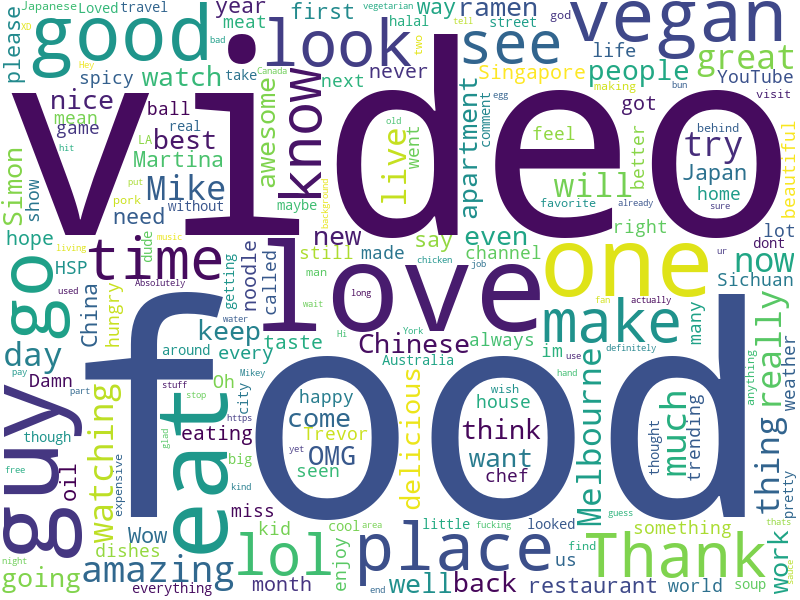
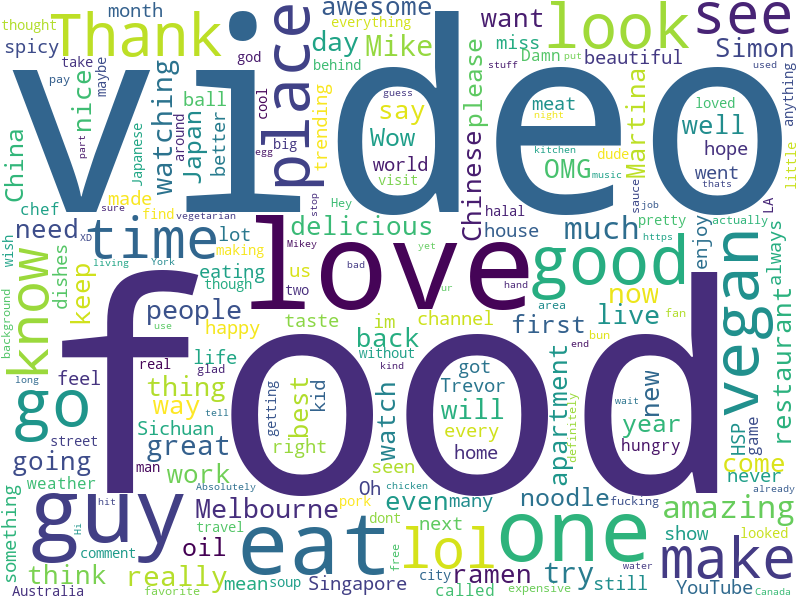
basic nltk/vader sentiment analysis, with wordcloud generation for positive and negative comments. more refactoring, updates to the readme, and other small changes elsewhere.

diff --git a/main/sentiments.py b/main/sentiments.py
@@ -1,0 +1,152 @@
+"""
+sentiments.py
+
+Perform sentiment analysis on individual videos (within a category, since there are many videos).
+
+Input file comes from the output of extract.py, which generates a .json file with data entries.
+Format of a data entry:
+{
+    video_id: {
+        "title": title,
+        "channel_title": channel_title,
+        "category_id": category_id,
+        "category_name": category_name,
+        ...
+        "comments": [
+            {
+                "comment_text": comment_text,
+                "likes": likes,
+                "replies": replies
+            }
+        ]
+    }
+}
+"""
+
+import argparse
+import json
+import extract_helpers
+import wordcloud_helper
+from nltk.sentiment.vader import SentimentIntensityAnalyzer
+from nltk import tokenize
+
+
+CATEGORY_DATA = "data/US_category_id.json"
+
+
+def extract_sentiments(comments):
+    """
+    Print sentiment data for this video's comments.
+
+    Returns a tuple of 3 elements:
+    - sentiment_score: a value indicating the average sentiment of all of these comments
+    - positive_comments: list of strings, the comments which had positive sentiment score
+    - negative_comments: list of strings, the comments which had negative sentiment score
+
+    A comment entry looks like:
+    "comments": [
+        {
+            "comment_text": comment_text,
+            "likes": likes,
+            "replies": replies
+        }
+    ]
+    :param comments: list of comment entries
+    :return: tuple of (sentiment score, positive comments, negative comments)
+    """
+    positive_comments = []
+    negative_comments = []
+    all_comment_scores = []
+
+    for comment in comments:
+        # use the nltk tokenizer to split the comment text into sentences
+        comment_text = comment["comment_text"]
+        sentences = tokenize.sent_tokenize(comment_text)
+
+        # get compound scores (sentiments) for each sentence in this comment
+        sid = SentimentIntensityAnalyzer()
+        compound_scores = []
+        for sentence in sentences:
+            ss = sid.polarity_scores(sentence)
+            compound_score = ss["compound"]
+            compound_scores.append(compound_score)
+
+        if len(compound_scores) == 0:
+            # implies that there were no comments for this video, which is totally possible if comments disabled
+            continue
+
+        avg_compound_score = sum(compound_scores) / len(compound_scores)
+        if avg_compound_score >= 0:
+            positive_comments.append(comment_text)
+        else:
+            negative_comments.append(comment_text)
+
+        all_comment_scores.append(avg_compound_score)
+
+    sentiment_score = sum(all_comment_scores) / len(all_comment_scores)
+    return sentiment_score, positive_comments, negative_comments
+
+
+def sentiments_by_category_id(input_filename, output_dir, category_id):
+    """
+    Get sentiments by category id.
+    Read input from input_file.
+    Output any data to output_dir.
+
+    For each video, find its sentiment score and print out its metadata (likes, dislikes, views, etc).
+
+    Generate wordclouds for both the positive comments and the negative comments of this
+
+    :param input_filename: string, the name of the input data file
+    :param output_dir: string, name of output directory
+    :param category_id: string, category id.
+    """
+    print("Starting: Sentiments for category id (%s)" % category_id)
+
+    with open(input_filename, "r") as input_file:
+        all_data_entries = json.load(input_file)
+
+        # get all videos with specified category
+
+        relevant_data_entries = {k: v for (k, v) in all_data_entries.items() if v["category_id"] == category_id}
+
+        if len(relevant_data_entries) == 0:
+            print("There were no videos for this category, continuing")
+            return
+
+        # iterate over each video, perform sentiment analysis and print out data
+        positive_comments = []
+        negative_comments = []
+        for video_id in relevant_data_entries:
+            print("Processing video id: (%s)" % video_id)
+            entry = relevant_data_entries[video_id]
+            score, positive, negative = extract_sentiments(entry["comments"])
+            positive_comments.extend(positive)
+            negative_comments.extend(negative)
+
+            print("Video title: %s, Views: %s, Likes: %s, Dislikes: %s, Channel title: %s, "
+                  "Compound sentiment score: %0.4f" % (entry["title"],
+                  entry["views"], entry["likes"], entry["dislikes"], entry["channel_title"], score))
+            print("_" * 20)
+
+        # generate wordclouds
+        pos_name = category_id + "-" + category_data[category_id] + "-" + "positive"
+        wordcloud_helper.generate_wordcloud(" ".join(positive_comments), pos_name, output_dir)
+
+        neg_name = category_id + "-" + category_data[category_id] + "-" + "negative"
+        wordcloud_helper.generate_wordcloud(" ".join(negative_comments), neg_name, output_dir)
+
+
+if __name__ == "__main__":
+    # Preliminary parsing - get category id and names
+    with open(CATEGORY_DATA, "r") as category_file:
+        category_data = extract_helpers.extract_categories_data(category_file)
+
+    # Command line parsing
+    parser = argparse.ArgumentParser(description="Preprocess CSV files")
+    parser.add_argument("-i", "--input", help="Specify the input file to use", required=True)
+    parser.add_argument("-o", "--output", help="Specify the output directory to use", required=True)
+    parser.add_argument("-c", "--cat", help="Category id to generate wordclouds for", required=True)
+    args = parser.parse_args()
+
+    sentiments_by_category_id(args.input, args.output, args.cat)

diff --git a/main/wordcloud_by_category.py b/main/wordcloud_by_category.py
@@ -1,15 +1,9 @@
 """
-wordclouds.py
+wordcloud_by_category.py
 
-Generate wordclouds.
-(uses the library from amueller, https://github.com/amueller/word_cloud)
+Generates a wordcloud for each category id.
 
-I'll generate one for each category id. There are other ways to split up the videos, but I'll just stick with one
-technique for now.
-
-Run preprocessing first - the preprocessing script produces a .json file that we take in as input.
-The .json file will have a specific format, as shown below.
-
+Input file comes from the output of extract.py, which generates a .json file with data entries.
 Format of a data entry:
 {
     video_id: {
@@ -32,9 +26,8 @@ Format of a data entry:
 
 import argparse
 import json
-import os
 import extract_helpers
-from wordcloud import WordCloud
+import wordcloud_helper
 
 ###########
 # GLOBALS #
@@ -45,14 +38,17 @@ CATEGORY_DATA = "data/US_category_id.json"
 ###########
 # HELPERS #
 ###########
-def wordcloud_for_specific_category_id(category_id):
+def wordcloud_for_specific_category_id(input_filename, output_dir, category_id):
     """
     Generate a word cloud for the category_id.
-    :param category_id: str, category id
+
+    :param input_filename: string, the filename of the input data file
+    :param output_dir: string, the name of the output dir
+    :param category_id: string, category id
     """
     print("Starting: Generate a word cloud for category id (%s)" % category_id)
 
-    with open(args.input, "r") as input_file:
+    with open(input_filename, "r") as input_file:
         all_data_entries = json.load(input_file)
 
         # get all videos with specified category
@@ -68,7 +64,7 @@ def wordcloud_for_specific_category_id(category_id):
         output_filename = category_id + "-" + category_data[category_id]
 
         # generate the word cloud
-        generate_wordcloud(counts_text, output_filename, args.output)
+        wordcloud_helper.generate_wordcloud(counts_text, output_filename, output_dir)
 
 
 def get_token_counts(data_entries):
@@ -119,19 +115,6 @@ def counts_to_text(counts):
     return " ".join(str_list)
 
 
-def generate_wordcloud(text, name, output_dir):
-    """
-    Generate a word cloud, given text.
-
-    :param text: str, tokens have to be space-separated
-    :param name: str, filename to output
-    :param output_dir: str, output directory name
-    """
-    wc = WordCloud(background_color="white", width=800, height=600, collocations=False)
-    wc.generate(text)
-    wc.to_file(os.path.join(output_dir, name) + ".png")
-
-
 if __name__ == "__main__":
     # Preliminary parsing - get category id and names
     with open(CATEGORY_DATA, "r") as category_file:
@@ -147,7 +130,7 @@ if __name__ == "__main__":
     # If command line argument contains -c option, only generate a word cloud for that category id.
     # If -c option not provided, generate a word cloud for every category id.
     if args.cat is not None:
-        wordcloud_for_specific_category_id(args.cat)
+        wordcloud_for_specific_category_id(args.input, args.output, args.cat)
     else:
         for cat_id in category_data:
-            wordcloud_for_specific_category_id(cat_id)
+            wordcloud_for_specific_category_id(args.input, args.output, cat_id)

diff --git a/main/extract_helpers.py b/main/extract_helpers.py
@@ -2,7 +2,6 @@ import csv
 import json
 import re
 
-
 ###################
 # Data Extraction #
 ###################
@@ -135,6 +134,11 @@ def parse_comments_data(videos_data, categories_data, comments_file):
             all_data[video_id]["comments"].append(comment_entry)
         # Otherwise, create a new entry - make sure to fetch the appropriate video and category data
         else:
+            # this stuff is done to avoid keyerrors that may arise (for GB dataset)
+            cat_id = videos_data[video_id]["category_id"]
+            if cat_id not in categories_data:
+                continue
+
             video_data = {
                 "title": videos_data[video_id]["title"],
                 "channel_title": videos_data[video_id]["channel_title"],

diff --git a/main/wordcloud_helper.py b/main/wordcloud_helper.py
@@ -1,0 +1,21 @@
+"""
+wordcloud.py
+
+Main functionality to generate a wordcloud.
+(uses the library from amueller, https://github.com/amueller/word_cloud)
+"""
+from wordcloud import WordCloud
+import os
+
+
+def generate_wordcloud(text, name, output_dir):
+    """
+    Generate a word cloud, given text.
+
+    :param text: str, tokens have to be space-separated
+    :param name: str, filename to output
+    :param output_dir: str, output directory name
+    """
+    wc = WordCloud(background_color="white", width=800, height=600, collocations=False)
+    wc.generate(text)
+    wc.to_file(os.path.join(output_dir, name) + ".png")

diff --git a/README.md b/README.md
@@ -1,13 +1,40 @@
 # nlp_fun
 Working with the "Trending Youtube Statistics" dataset, found on: https://www.kaggle.com/datasnaek/youtube/data
 
-## usage (incomplete)
-1. run preprocessing script (reads original data from files, combines them, outputs them into a .json)
-2a. run string preprocessing (read in .json from part 1, does simple string preprocessing on every comment), output into
-a new .json.
-2b. (optional) run wordclouds.py, with input from step 2
+Point of this is to dabble into analyzing data. It's simple for sure - i'm not doing anything revolutionary, mostly just processing data and running it through some NLP libraries.
 
-3. take input from 2a, perform sentiment analysis with nltk
+## Run
+Uses python3.
+Have to install these packages: wordcloud, nltk
 
-## planned
-- sentiment analysis 
+1. run extract.py script (reads original data from files, combines them, preprocesses the comments a bit, outputs them into a .json)
+`python main/extract.py -i US -o output/preprocUS.json`
+- this will read in the US files, and generate an output file at `output/preprocUS.json`
+
+`python main/extract.py -i GB -o output/preprocGB.json`
+- this will read in the GB files, and generate an output file at `output/preprocGB.json`
+
+Tests:
+`python main/extract_helpers_test.py`
+
+2a. Generate wordclouds by category id.
+`python main/wordcloud_by_category.py -i output/preprocUS.json -o output/wordclouds -c 24`
+- this will generate a wordcloud for all of the comments of all of the videos that are in category id 24 (Entertainment)
+- to see the list of category ids, look at the `US_category_id.json` file
+- some categories don't have videos
+
+`python main/wordcloud_by_category.py -i output/preprocUS.json -o output/wordclouds`
+- this will go through every category and generate a wordcloud for all comments for that category
+
+2b. Sentiments and wordclouds, by category id.
+A variant of 2a, where I go through all the videos of a specific category id.
+Then, I use nltk/vader to get the sentiment score of each comment, each video in that category.
+I separate comments based on if they have positive or negative sentiment.
+Then, I generate a wordcloud for all the positive comments, and a wordcloud for all the negative comments.
+
+`python main/sentiments.py -i output/preprocUS.json -o output/wordclouds -c 25`
+
+## TODOs
+- separation of US / GB outputs (for wordcloud_by_category.py, sentiments.py)
+- ability to wordcloud on a specific video
+- more complex analytics, eg) get the top 10 comments (in terms of likes/dislikes ratio) for each of the top 10 videos for a specific category, and make a wordcloud for these comments
